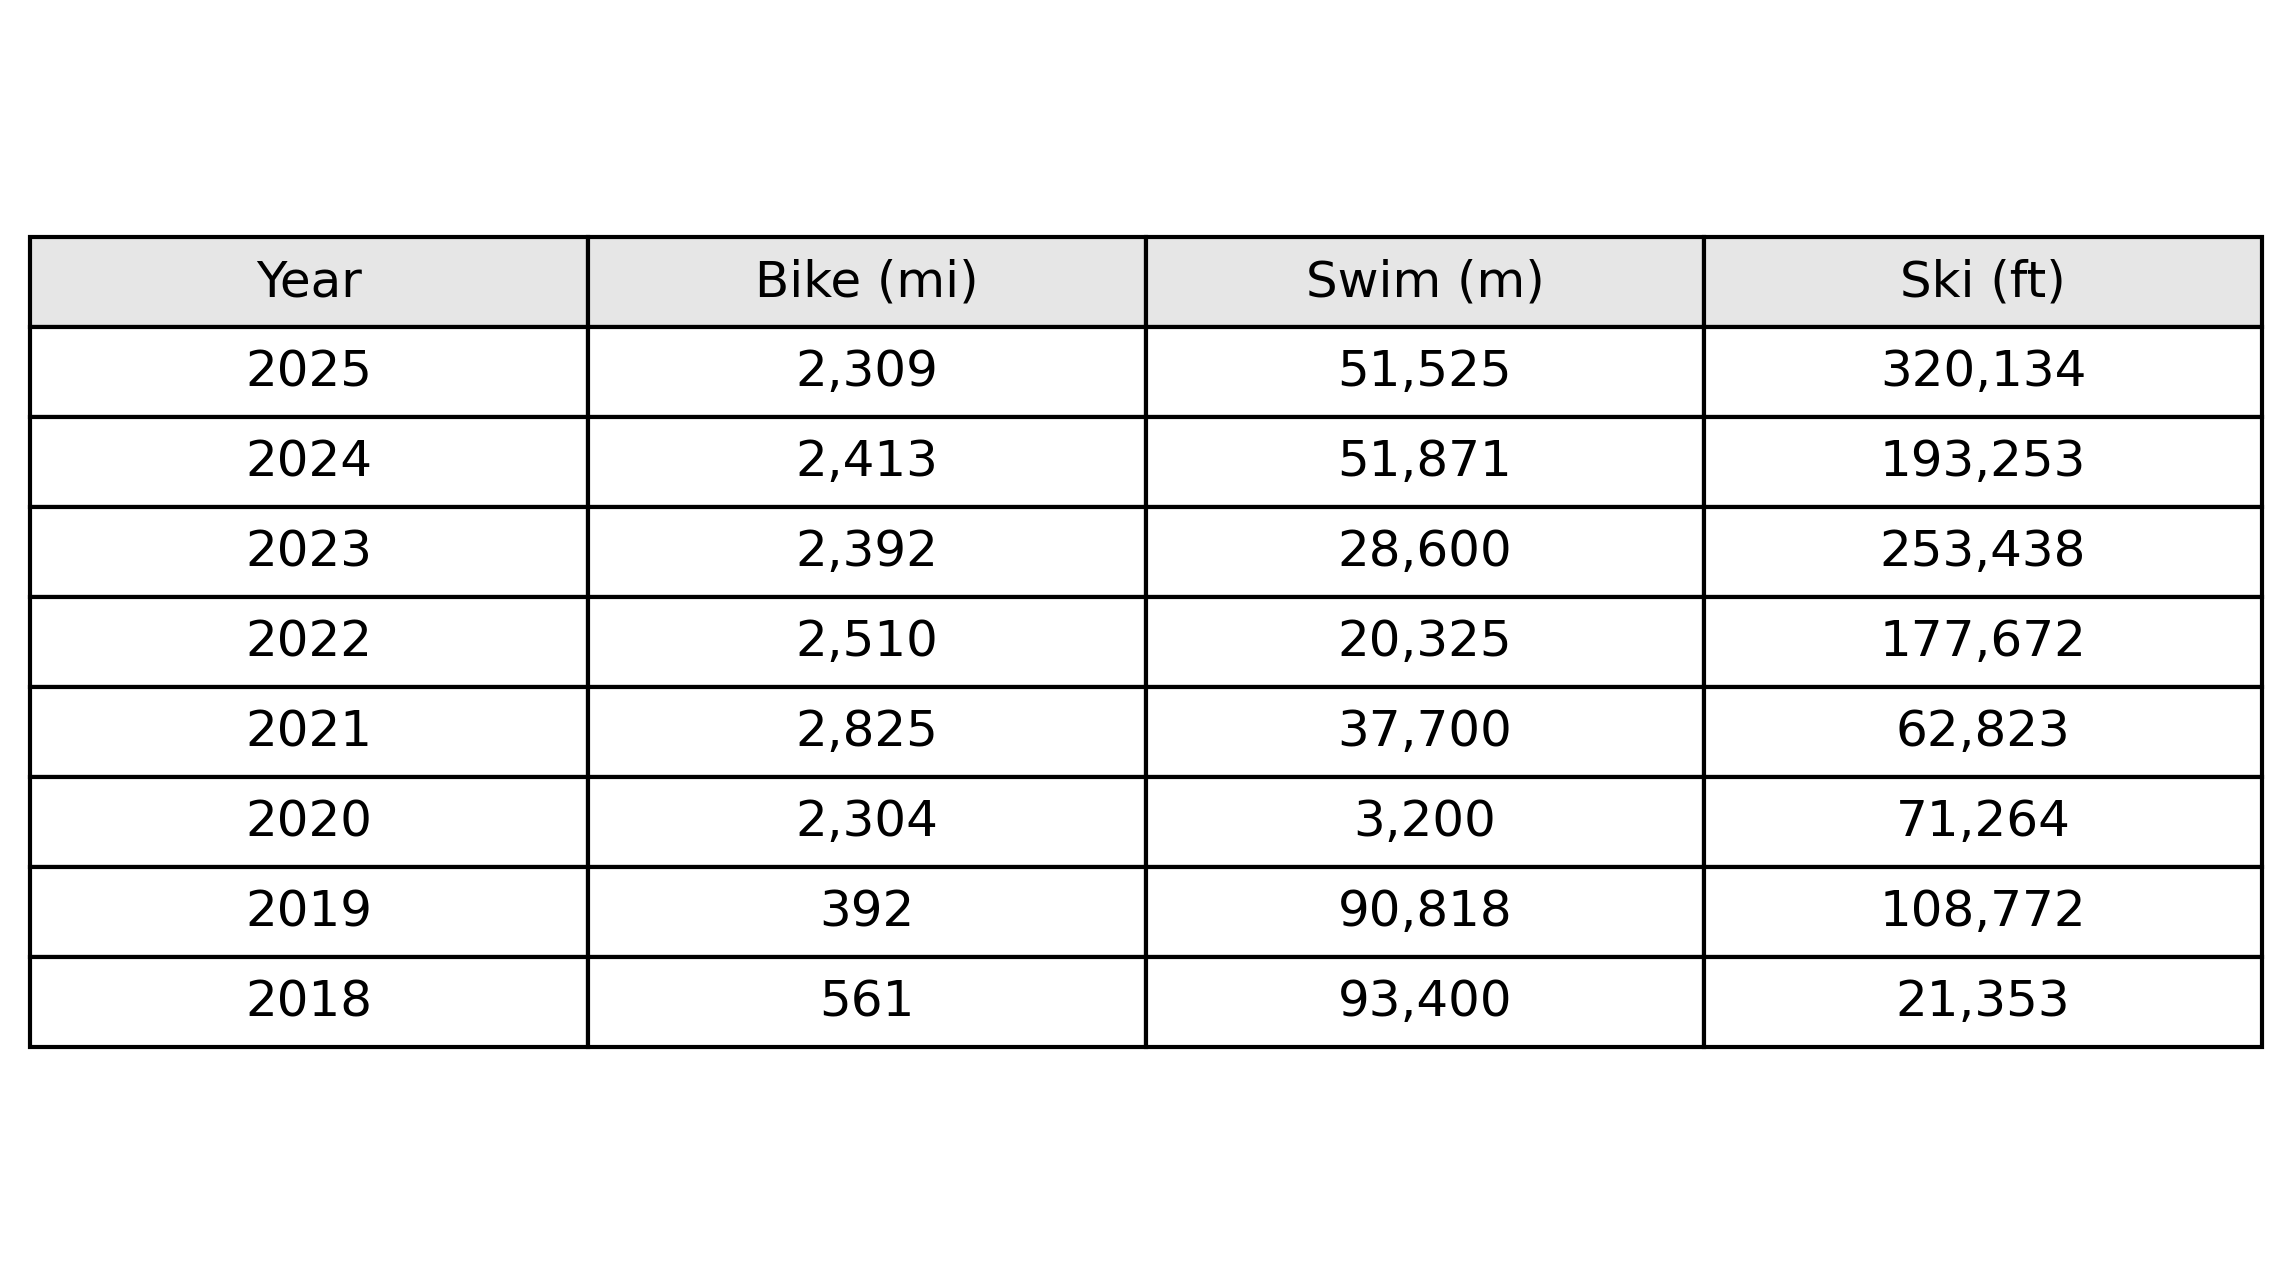
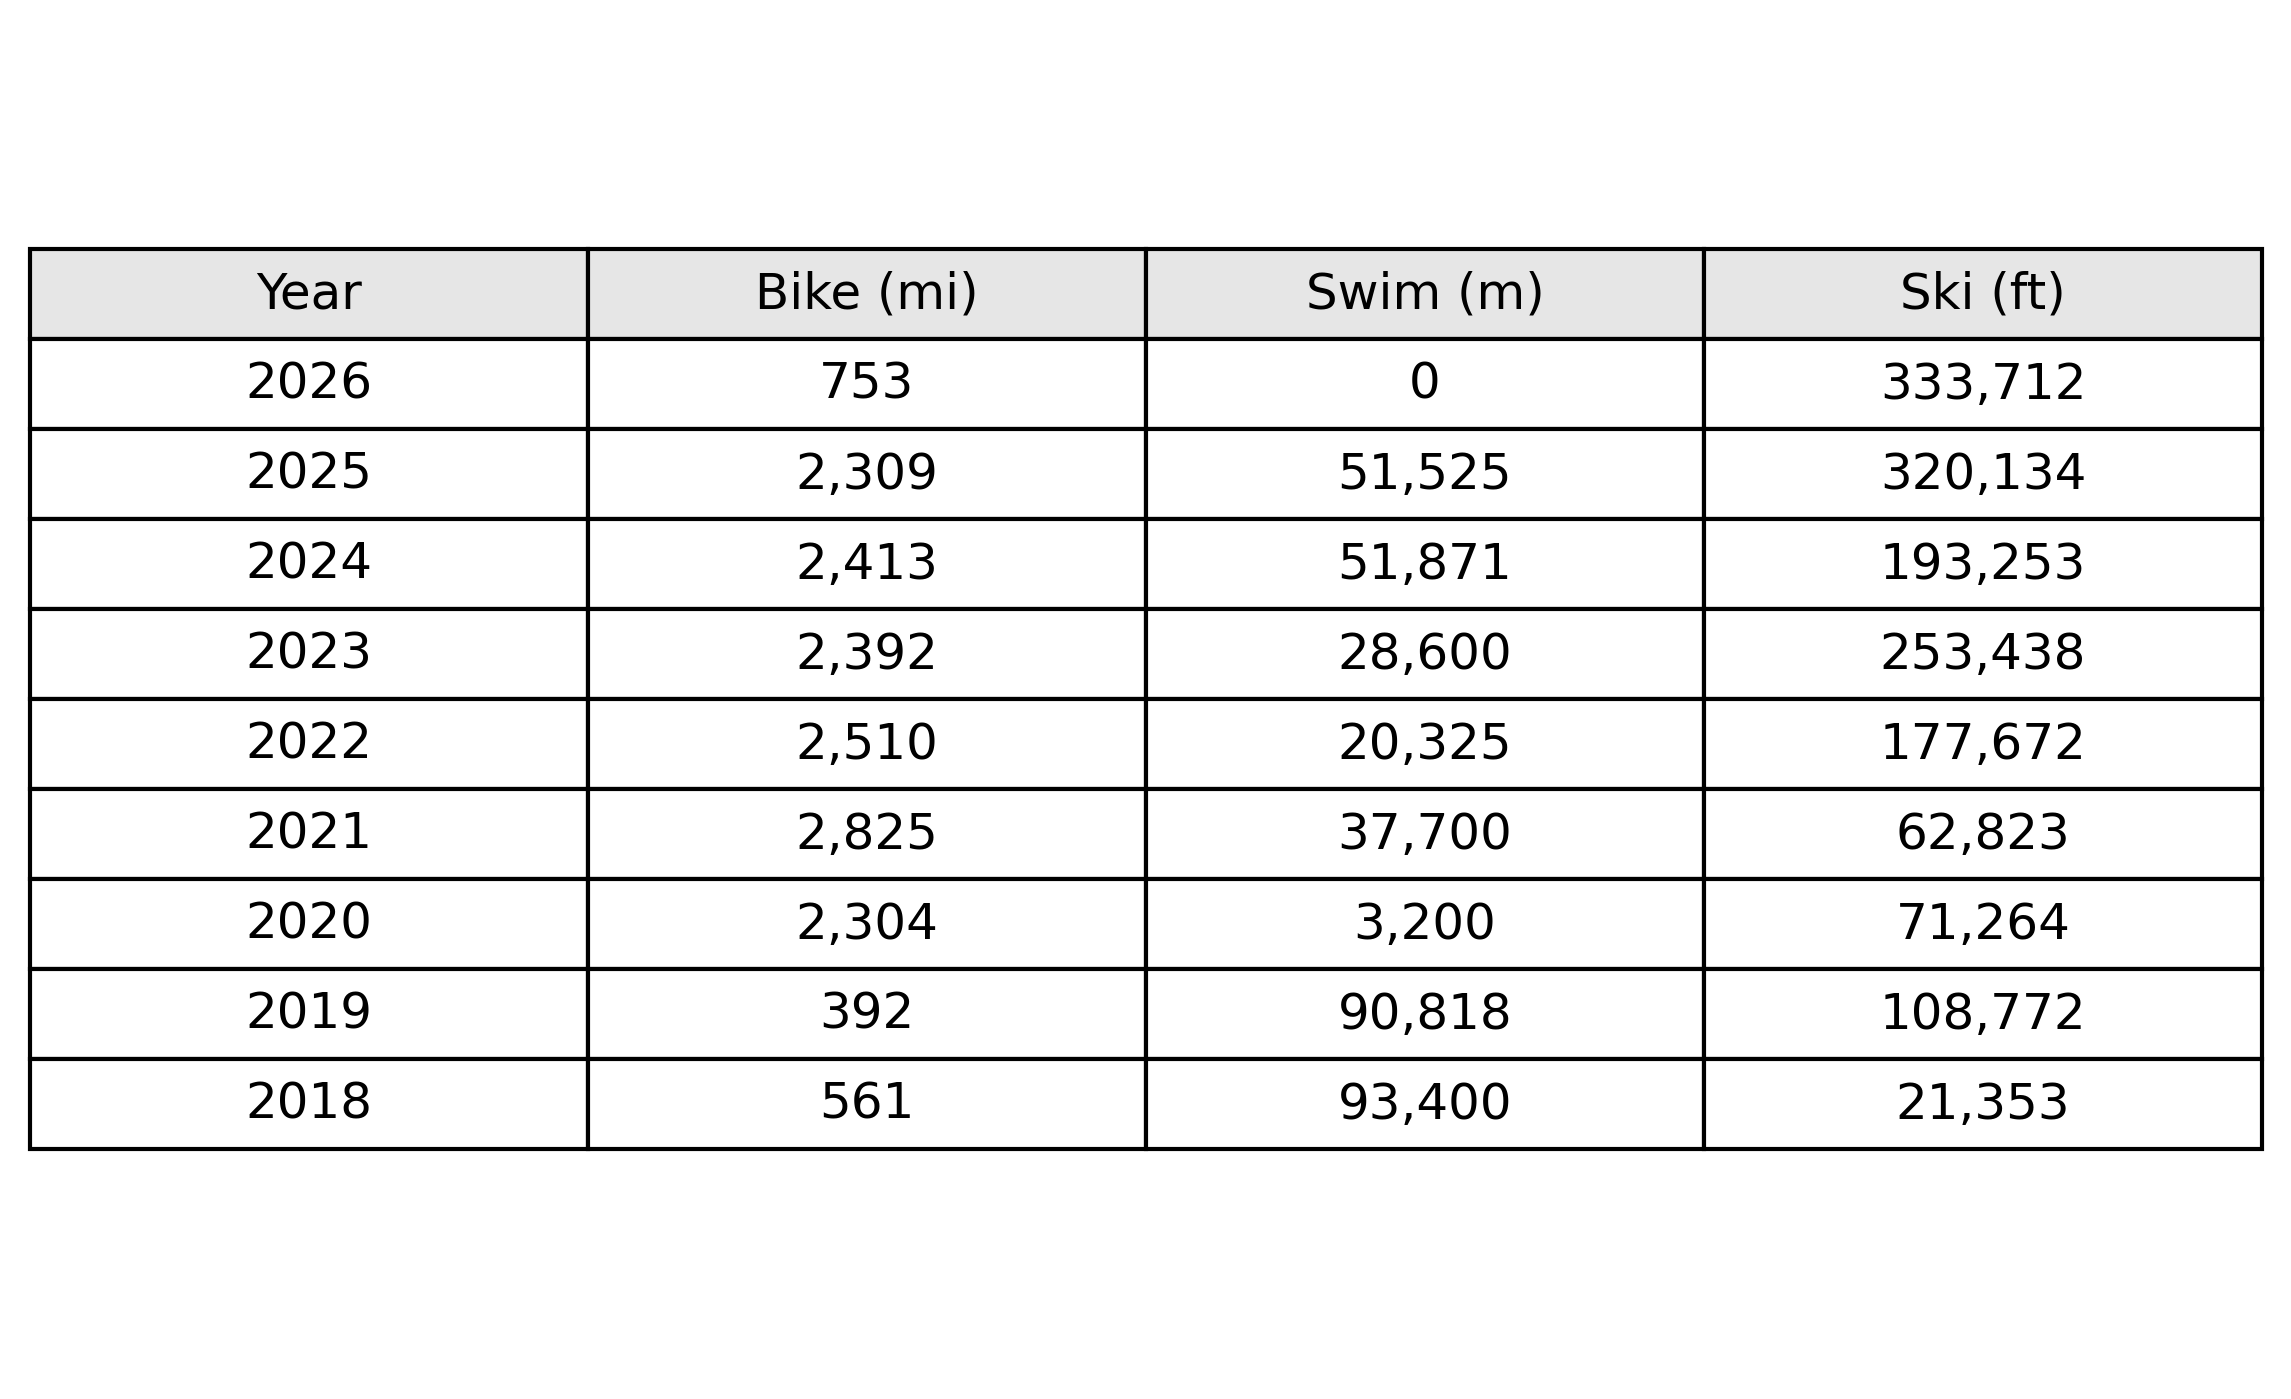
Refresh pipeline images, tighten .gitignore, update README
- Update tracked PNGs with fresh data from latest pipeline run
- Untrack chart_activities_per_year.png (generated, not for docs)
- Add gear_map.json, athlete_profile.json, athlete_stats.json to .gitignore
- Add Trends tab to README Dashboard section

Changed region(s): [[0.0, 0.1558, 0.9917, 0.8411]]

diff --git a/README.md b/README.md
@@ -46,7 +46,7 @@ streamlit run app.py
 
 ## Dashboard
 
-The interactive dashboard is organized into tabs: Bike, Ski, Swim, Mile Equity, Wrapped, and Settings.
+The interactive dashboard is organized into tabs: Bike, Ski, Swim, Trends, Mile Equity, Wrapped, and Settings.
 
 ### Bike — Year view
 Annual distance and riding hours, 2018–present. Current year shown in lighter orange (YTD).
@@ -62,6 +62,9 @@ Day-by-day comparison: selected month (orange) vs. prior year same month (blue) 
 ISO week navigator with the same three-period overlay.
 
 ![Bike week view](docs/screenshots/bike_week.png)
+
+### Trends
+Monthly year-over-year comparison across all sports. Select Bike, Bike Equity, Swim, or Ski; adjust the window from 2 to 12 months. The current in-progress month is shown in lighter orange. Metric cards below the chart highlight the last complete month and current month YTD, each with a ±% delta vs. the prior year.
 
 ### Settings
 Equity mile conversion rates (swim meters and ski vertical feet per mile) and annual/monthly/seasonal goals.
